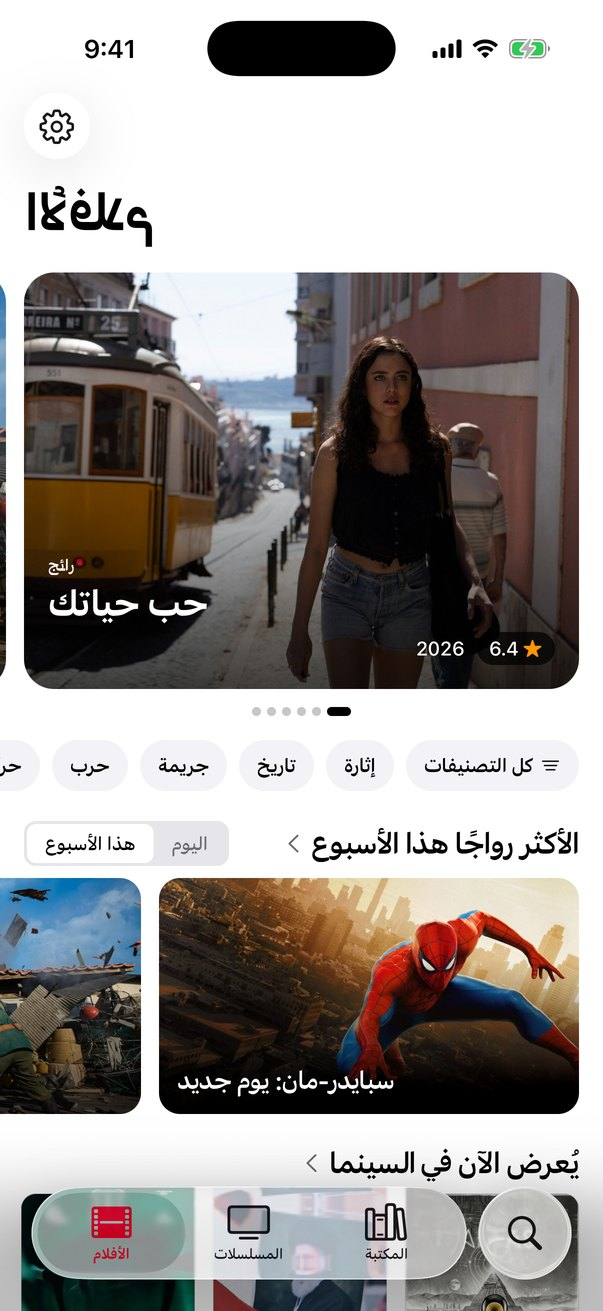
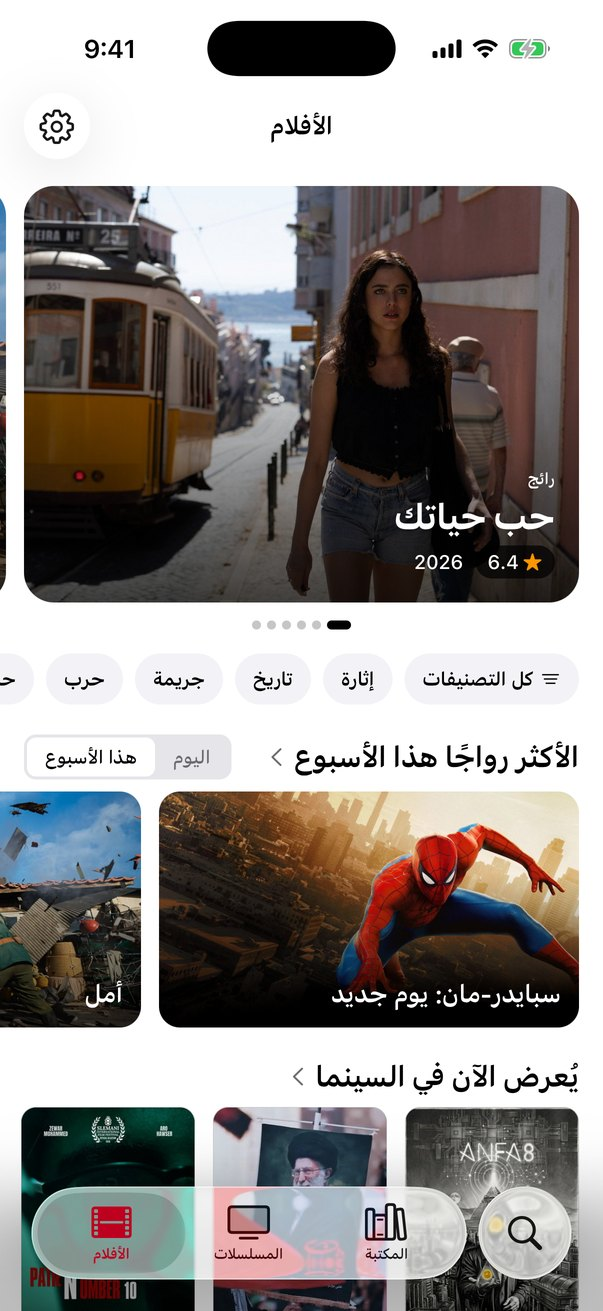
Arabic list separators, translated departments in search, fresh Arabic screenshots
- Lists on the title page and in search results use the Arabic comma in Arabic
- Search results translate the person's department
- Retake the README's Arabic screenshots with the right-to-left fixes

diff --git a/src/features/title/presentation/screens/details/TitleDetailsScreen.tsx b/src/features/title/presentation/screens/details/TitleDetailsScreen.tsx
@@ -61,13 +61,13 @@ const infoRows = (details: TitleDetails, t: Translate, locale: string | undefine
     details.creators.length > 0
       ? {
           label: t({ key: isShow ? 'title.info.createdBy' : 'title.info.director' }),
-          value: details.creators.map((person) => person.name).join(', '),
+          value: details.creators.map((person) => person.name).join(t({ key: 'common.listSeparator' })),
         }
       : null,
     details.writers.length > 0
       ? {
           label: t({ key: 'title.info.writers' }),
-          value: details.writers.map((person) => person.name).join(', '),
+          value: details.writers.map((person) => person.name).join(t({ key: 'common.listSeparator' })),
         }
       : null,
     details.status !== null ? { label: t({ key: 'title.info.status' }), value: details.status } : null,
@@ -100,7 +100,9 @@ const infoRows = (details: TitleDetails, t: Translate, locale: string | undefine
     details.show !== null && details.show.networks.length > 0
       ? {
           label: t({ key: 'title.info.networks' }),
-          value: details.show.networks.map((network) => network.name).join(', '),
+          value: details.show.networks
+            .map((network) => network.name)
+            .join(t({ key: 'common.listSeparator' })),
         }
       : null,
     details.originalLanguage !== null
@@ -153,7 +155,7 @@ export const TitleDetailsScreen = ({
         }
         imageUri={summary.backdrop?.large ?? summary.poster?.large ?? null}
         metaLine={metaLine(details, t)}
-        genreLine={details.genres.map((genre) => genre.name).join(', ')}
+        genreLine={details.genres.map((genre) => genre.name).join(t({ key: 'common.listSeparator' }))}
       />
 
       <View style={styles.body}>

diff --git a/src/features/search/presentation/screens/search/components/PersonRow.tsx b/src/features/search/presentation/screens/search/components/PersonRow.tsx
@@ -1,10 +1,12 @@
 import { View } from 'react-native';
 import { StyleSheet } from 'react-native-unistyles';
+import { useTranslate } from '@shared/core/presentation/i18n/useTranslate';
 import { AppIcon } from '@shared/core/presentation/components/AppIcon';
 import { AppImage } from '@shared/core/presentation/components/AppImage';
 import { AppPressable } from '@shared/core/presentation/components/AppPressable';
 import { AppText } from '@shared/core/presentation/components/AppText';
 import type { PersonSummary } from '@shared/domain/model/person';
+import { departmentText } from '@shared/presentation/mappers/departmentText';
 
 export type PersonRowProps = {
   readonly person: PersonSummary;
@@ -12,7 +14,11 @@ export type PersonRowProps = {
 };
 
 export const PersonRow = ({ person, onPress }: PersonRowProps) => {
-  const line = [person.department, person.knownFor.slice(0, 2).join(', ')]
+  const t = useTranslate();
+  const line = [
+    person.department === null ? null : departmentText(person.department, t),
+    person.knownFor.slice(0, 2).join(t({ key: 'common.listSeparator' })),
+  ]
     .filter((part) => part !== null && part !== '')
     .join(' · ');
   return (

diff --git a/src/shared/core/presentation/i18n/ar.ts b/src/shared/core/presentation/i18n/ar.ts
@@ -307,4 +307,6 @@ export const ar: Readonly<Record<string, string>> = {
   'department.crew': 'طاقم العمل',
   'department.lighting': 'إضاءة',
   'department.creator': 'إبداع',
+
+  'common.listSeparator': '، ',
 };

diff --git a/src/shared/core/presentation/i18n/en.ts b/src/shared/core/presentation/i18n/en.ts
@@ -308,4 +308,6 @@ export const en: Readonly<Record<string, string>> = {
   'department.crew': 'Crew',
   'department.lighting': 'Lighting',
   'department.creator': 'Creator',
+
+  'common.listSeparator': ', ',
 };
